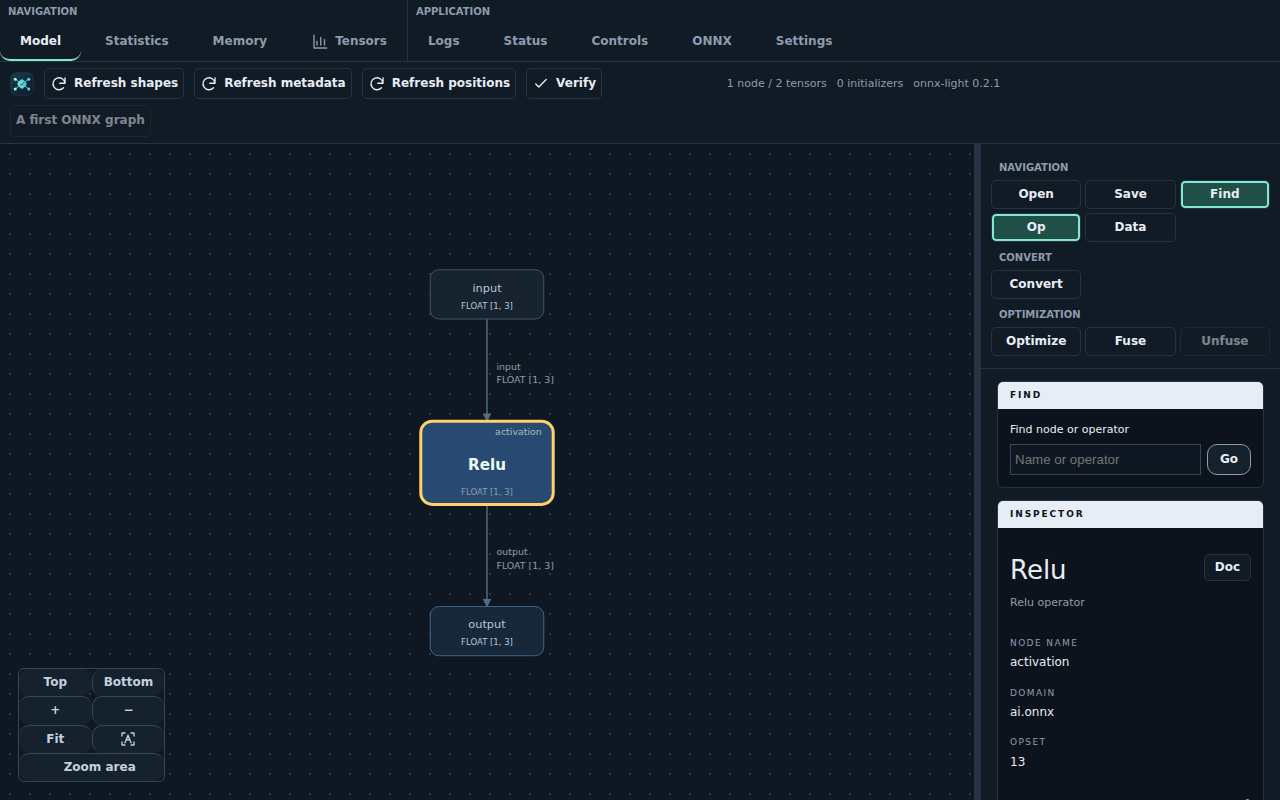
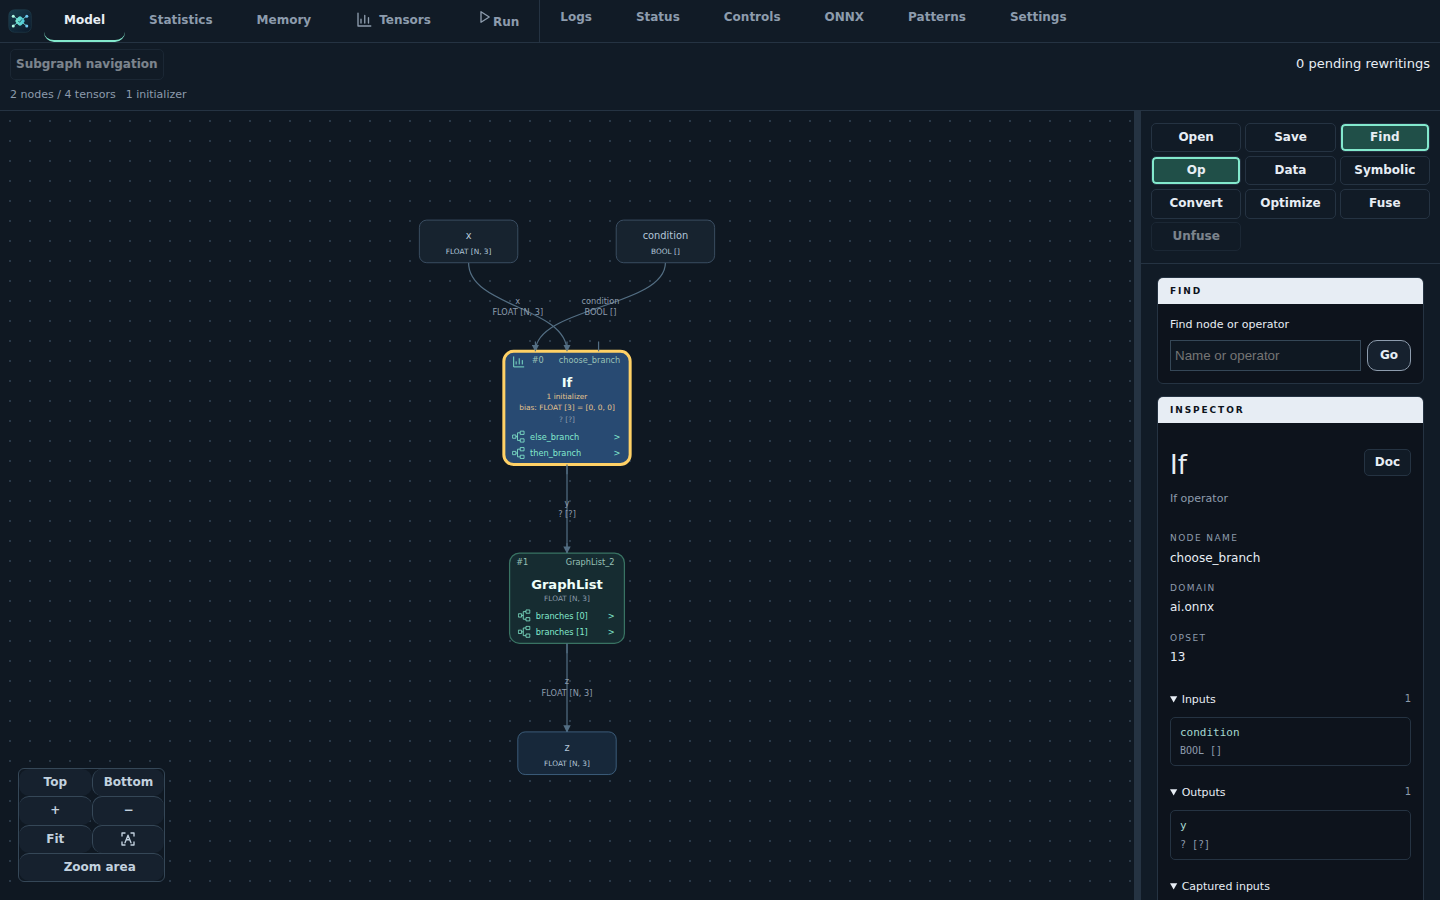
ui: simplify model header and remove redundant labels
Keep model breadcrumbs beside the pending-rewriting counter, reserve displayed versions for Status, and remove Navigation/Application headings while preserving tab order and source links. Clamp long titles to the viewport and expose full names on hover. Update focused regressions, documentation and the real UI screenshot.

diff --git a/src/webview.ts b/src/webview.ts
@@ -11,7 +11,6 @@ import { huggingFaceTasks } from "./huggingFaceTasks";
  * @param nonce Fresh per-panel nonce authorizing only the bundled scripts.
  * @param onnxLightVersion C++ release embedded in the compiled native addon.
  * @param initialTab Initially selected viewer tab.
- * @param appVersion Viewer release from the extension's package metadata.
  * @returns Complete HTML document; graph and log data require the ready handshake.
  */
 export function webviewHtml(
@@ -20,7 +19,6 @@ export function webviewHtml(
   nonce: string,
   onnxLightVersion: string,
   initialTab: "model" | "logs" = "model",
-  appVersion: string = "",
 ): string {
   const historyControls = (target: "open" | "save"): string =>
     `<details id="${target}-history" class="path-history" hidden><summary>Recent paths</summary><p>Missing local paths are removed automatically. Selecting a path only fills the field.</p><button id="${target}-clear-history" type="button">Clear ${target === "open" ? "Open" : "Save"} history</button><ul id="${target}-history-entries" aria-label="Recent ${target} paths"></ul></details>`;
@@ -150,11 +148,10 @@ export function webviewHtml(
   <link rel="stylesheet" href="${resource("viewer.css")}">
   <title>ONNX Light Viewer</title>
 </head>
-<body>
+<body data-onnx-light-version="${onnxLightVersion}">
   <main class="workspace" aria-label="ONNX graph explorer">
     <nav class="viewer-tabs" role="tablist" aria-label="Viewer">
       <div class="feature-group" role="presentation">
-        <span class="feature-group-title" id="navigation-theme">Navigation</span>
         <div class="feature-group-controls" role="presentation">
           <a id="repository-link" href="https://github.com/xadupre/onnx-light-viewer" title="ONNX Light Viewer on GitHub" aria-label="Open the ONNX Light Viewer GitHub repository"><img src="${resource("logo.svg")}" alt="" width="24" height="24"></a>
           <button id="model-tab" role="tab" aria-controls="model-view" aria-selected="${initialTab === "model"}" tabindex="${initialTab === "model" ? 0 : -1}">Model</button>
@@ -165,7 +162,6 @@ export function webviewHtml(
         </div>
       </div>
       <div class="feature-group" role="presentation">
-        <span class="feature-group-title" id="application-theme">Application</span>
         <div class="feature-group-controls" role="presentation">
           <button id="logs-tab" role="tab" aria-controls="logs-view" aria-selected="${initialTab === "logs"}" tabindex="${initialTab === "logs" ? 0 : -1}">Logs</button>
           <button id="status-tab" role="tab" aria-controls="status-view" aria-selected="false" tabindex="-1">Status</button>
@@ -178,11 +174,13 @@ export function webviewHtml(
     </nav>
     <section id="model-view" role="tabpanel" aria-labelledby="model-tab"${initialTab === "logs" ? " hidden" : ""}>
       <header class="graph-toolbar">
-        <div class="graph-stats" aria-live="polite"><span id="graph-summary">No model loaded</span><span id="initializer-count">0 initializers</span><span id="app-version" title="ONNX Light Viewer version">ONNX Light Viewer ${appVersion}</span><span id="onnx-light-version" data-version="${onnxLightVersion}" title="onnx-light C++ release used by this viewer">onnx-light ${onnxLightVersion}</span><span id="navigation-status" role="status"></span><span id="load-status" role="status"></span></div>
-        <span id="rewriting-count" role="status" title="Rewritings waiting to be reapplied before the next native matching or optimization">0 pending rewritings</span>
+        <div class="graph-heading">
+          <nav id="graph-navigation" aria-label="Graph breadcrumbs" hidden></nav>
+          <span id="rewriting-count" role="status" title="Rewritings waiting to be reapplied before the next native matching or optimization">0 pending rewritings</span>
+        </div>
+        <div class="graph-stats" aria-live="polite"><span id="graph-summary">No model loaded</span><span id="initializer-count">0 initializers</span><span id="navigation-status" role="status"></span><span id="load-status" role="status"></span></div>
         <span id="save-status" role="status"></span>
         <span id="fusion-status" role="status"></span>
-        <nav id="graph-navigation" aria-label="Graph breadcrumbs" hidden></nav>
         <progress id="load-progress" aria-label="Loading ONNX model" hidden></progress>
       </header>
       <div class="graph-body">

diff --git a/media/viewer.css b/media/viewer.css
@@ -75,14 +75,6 @@ p {
 .feature-group {
   min-width: 0;
 }
-.feature-group-title {
-  display: block;
-  padding: 4px 8px;
-  color: var(--muted);
-  font-size: 10px;
-  font-weight: 600;
-  text-transform: uppercase;
-}
 .feature-group-controls {
   display: flex;
   gap: 4px;
@@ -113,7 +105,9 @@ p {
 }
 #model-view {
   display: grid;
+  grid-template-columns: minmax(0, 1fr);
   grid-template-rows: auto minmax(0, 1fr);
+  min-width: 0;
   min-height: 0;
 }
 #logs-view,
@@ -533,6 +527,14 @@ body.resizing-tensor-column * {
   gap: 10px;
   flex-wrap: wrap;
 }
+.graph-toolbar > .graph-heading {
+  flex: 0 0 100%;
+  flex-wrap: nowrap;
+}
+#rewriting-count {
+  flex-shrink: 0;
+  white-space: nowrap;
+}
 #repository-link {
   display: flex;
   align-items: center;
@@ -687,7 +689,8 @@ body.resizing-sidebar {
 }
 #graph-navigation:not([hidden]) {
   display: flex;
-  flex: 0 0 100%;
+  flex: 1;
+  min-width: 0;
   flex-wrap: wrap;
   gap: 6px;
 }
@@ -714,7 +717,10 @@ body.resizing-sidebar {
 }
 #graph-navigation button {
   max-width: 100%;
-  overflow-wrap: anywhere;
+  min-width: 0;
+  overflow: hidden;
+  text-overflow: ellipsis;
+  white-space: nowrap;
   text-align: left;
   background: var(--panel);
 }

diff --git a/media/fusion-panel.js b/media/fusion-panel.js
@@ -227,7 +227,7 @@ function createFusionPanel({
       parts.some((part) => !part || part === "." || part === "..")
     )
       return document.createTextNode(location);
-    const version = byId("onnx-light-version").dataset.version;
+    const version = document.body.dataset.onnxLightVersion;
     const link = document.createElement("a");
     link.className = "native-source-link";
     link.href = `https://github.com/xadupre/onnx-light/blob/${encodeURIComponent(version)}/${parts.map(encodeURIComponent).join("/")}${line ? `#L${line}` : ""}`;

diff --git a/media/viewer.js b/media/viewer.js
@@ -2404,6 +2404,7 @@ function render(graph, metadata) {
       const button = document.createElement("button");
       button.className = "icon-button";
       button.textContent = crumb.name;
+      button.title = crumb.name;
       if (JSON.stringify(crumb.path) === currentPath) {
         button.disabled = true;
         button.setAttribute("aria-current", "page");

diff --git a/src/extension.ts b/src/extension.ts
@@ -4348,7 +4348,6 @@ async function configurePanel(
     nonce,
     onnxLightVersion,
     initialTab,
-    context.extension.packageJSON.version,
   );
   if (uri) {
     try {

diff --git a/docs/features.rst b/docs/features.rst
@@ -12,16 +12,17 @@ This overview describes the default branch, not every capability of the
 underlying onnx-light libraries. Start with the worked example in
 :doc:`getting_started`; the linked guides explain each control in detail.
 
-Controls are grouped by theme: **Navigation** (including statistics),
-**Convert**, **Optimization** and **Application** (logs, status, help and settings).
-Model actions remain in the sidebar; application tabs are available without
-loading a model. See :doc:`features/navigation`.
+Tabs share one compact row, without Navigation/Application headings.
+The model title and pending-rewriting counter share a header row; versions are
+shown in **Status**, not above the graph. Model actions remain in the sidebar;
+application tabs are available without loading a model.
+See :doc:`features/navigation`.
 
 .. figure:: _static/feature-themes.png
-   :alt: Viewer with Navigation and Application tab groups and Navigation, Convert and Optimization sidebar groups.
+   :alt: Compact viewer tabs and a model title beside its pending-rewriting counter, without duplicate version labels.
    :width: 100%
 
-   Find related controls together without changing the model.
+   Keep the graph header compact without removing controls or Status details.
 
 Opening models
 ^^^^^^^^^^^^^^

diff --git a/docs/features/navigation.rst b/docs/features/navigation.rst
@@ -27,15 +27,14 @@ connections, or placed on the other side, when space permits.
 
    Read carried results without placing every label on the same horizontal line.
 
-Features are grouped by theme:
+The top row provides Model, Statistics, Memory, Tensors and Run, followed by
+Logs, Status, Controls, ONNX, Patterns and Settings. There are no
+Navigation/Application headings. Model actions, conversion and optimization
+controls remain in the sidebar.
+The model title and pending-rewriting counter share one header row; hover over
+a shortened title for its full name. Package versions are available in **Status**.
 
-* **Navigation** includes Model, Statistics, Memory and Tensors, with Open,
-  Save, Find, Op and Data controls in the model sidebar.
-* **Convert** groups model conversion controls in the sidebar.
-* **Optimization** groups Optimize, Fuse and Unfuse in the sidebar.
-* **Application** includes Logs, Status, Controls, ONNX links and Settings.
-
-The **Controls** tab under **Application** groups keyboard shortcuts, mouse
+The **Controls** tab groups keyboard shortcuts, mouse
 gestures and navigation buttons into two-column tables: **Control** and
 **Action**. It is available even before a model is loaded.
 

diff --git a/docs/features/opening_models.rst b/docs/features/opening_models.rst
@@ -15,8 +15,9 @@ Opening models
 * **ONNX Light Viewer: Open Graph** opens the bundled Relu demo.
   **ONNX Light Viewer: Open Symbolic Transformer Example** opens a bundled,
   randomly initialized transformer graph with symbolic batch/sequence dimensions.
-* The toolbar shows the native onnx-light C++ release, graph counts, refresh
-  progress and errors. Its logo links to the GitHub repository.
+* The toolbar shows graph counts, refresh progress and errors. Viewer and
+  native onnx-light C++ versions are shown in **Status**.
+  Its logo links to the GitHub repository.
   Loading failures also display an error panel directly over the graph canvas,
   including when the first model cannot be opened. The previous graph, if any,
   is preserved; use **Open** to try another file.
